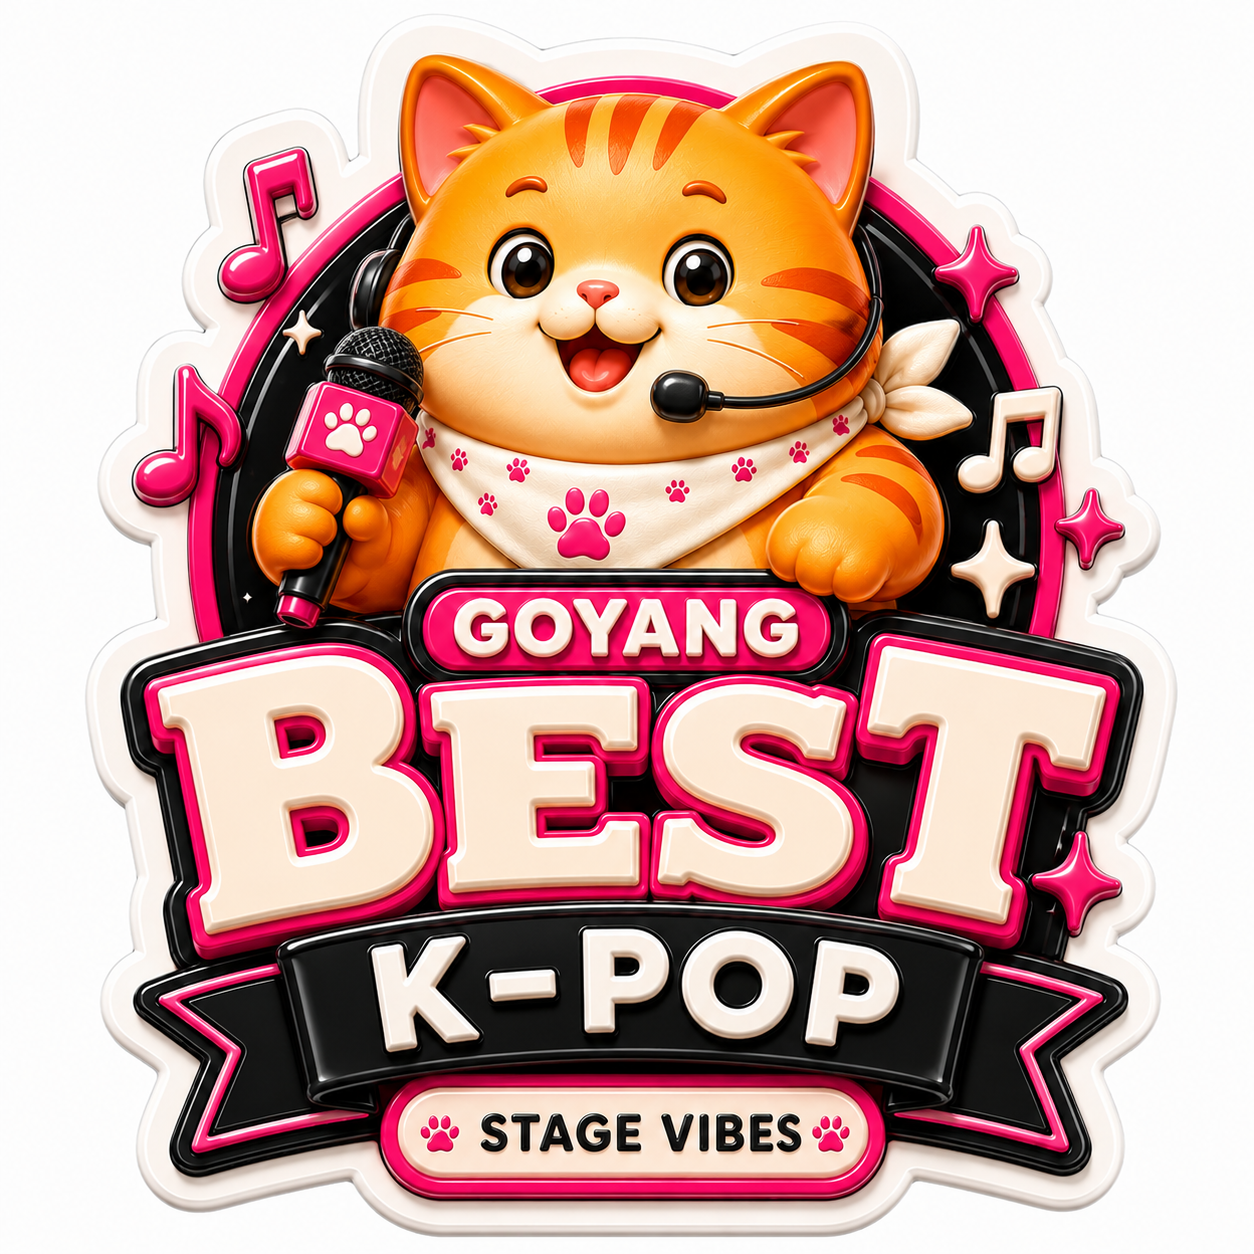
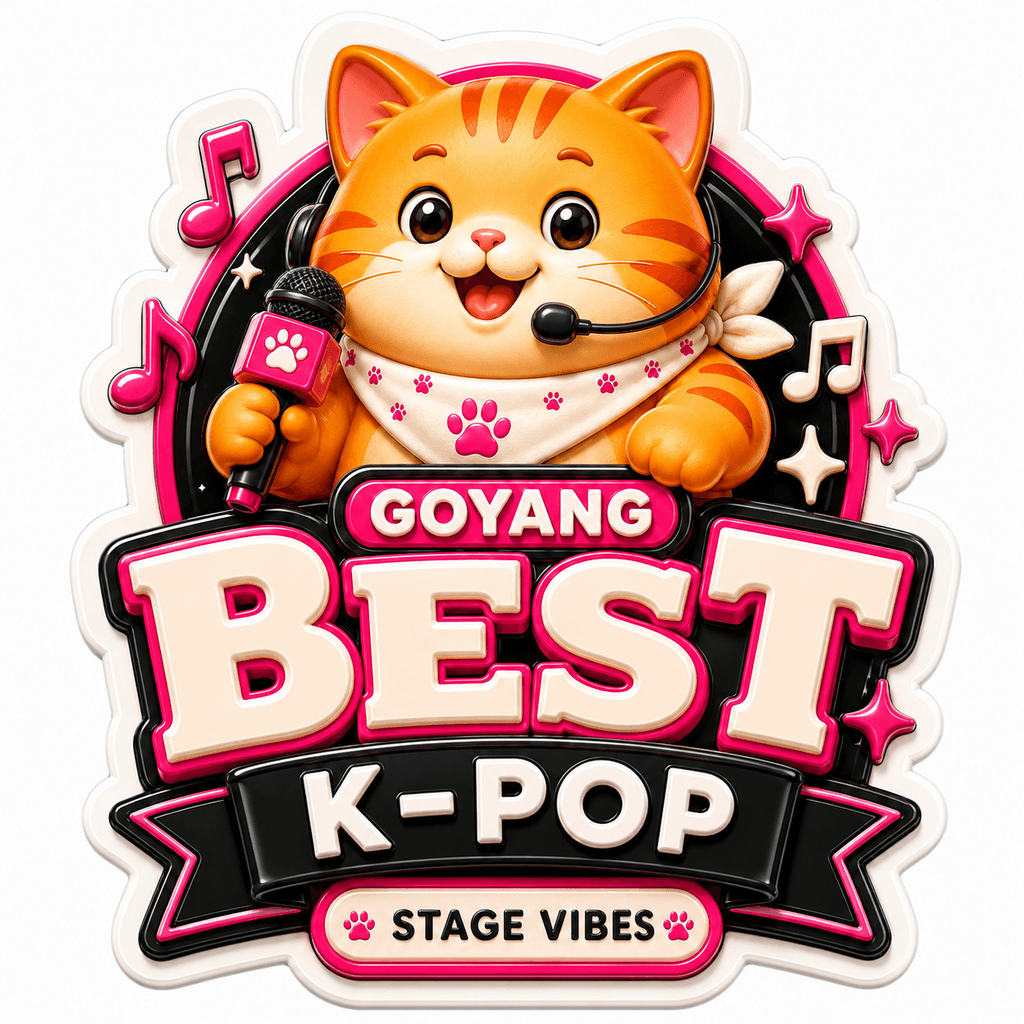
perf(cards): compress 6 badge PNGs to ~400KB each (-79%)
배지 파일 6장 sharp 로 1024×1024 palette PNG 최적화. 시각 품질 유지, 용량만 감축.

before / after (79% 감축):
  walk      1.88MB → 386.6KB  (-79.9%)
  food      1.79MB → 416.8KB  (-77.2%)
  culture   1.84MB → 388.8KB  (-79.3%)
  kculture  1.83MB → 431.6KB  (-77.0%)
  history   1.98MB → 409.9KB  (-79.8%)
  family    1.89MB → 405.6KB  (-79.1%)
  total    11.21MB → 2.38MB   (-78.8%)

전체 목표 200-300KB 보다 약간 크나(400KB 대), 79% 감축·시각 손실 없음.
palette=true 로 이미 aggressive quantization 중이라 추가 감축은 시각 손상 위험.

투명 배경 관련:
- 사전 검사 결과 원본 6장 모두 channels=3 (RGB, hasAlpha=false)
- 코너 alpha=255 → 실제로는 불투명 배경 (흰색 또는 컬러)
- 사용자가 "투명본으로 교체" 라 했으나 실 파일은 이전과 동일한 불투명 PNG
- 이번 오더는 압축만 진행 · 투명 처리는 별도 오더로 남김
- README 에도 압축 상태 1줄 명시 (원본 별도 보관)

Added:
- scripts/compress-badges.mjs — 1회성 스크립트, 재실행 가능

무접촉: 코드 로직·다른 자산·설정 무접촉.

diff --git a/public/images/badges/README.md b/public/images/badges/README.md
@@ -1,5 +1,8 @@
 # 카드 중앙 배지 이미지 (AI 생성 · 투명 PNG)
 
+> **압축 상태**: 현재 커밋된 6장은 `sharp` 로 1024×1024 · palette PNG 로 최적화된 압축본(각 ~400KB, 총 2.38MB). 원본 고해상도 파일은 별도 보관.
+
+
 `components/home/CuratedGridSection.tsx` 가 카드 중앙 대형 배지를 이 폴더의 파일로 자동 렌더합니다. 파일이 있으면 이미지로, 없으면 자체 SVG 엠블럼(`components/emblem/Emblem.tsx` size=L) 로 자동 폴백. **빈 자리 금지**.
 
 `public/images/cards/` (배경 사진) 와는 **독립적** 으로 폴백 판정이 이뤄지므로:
